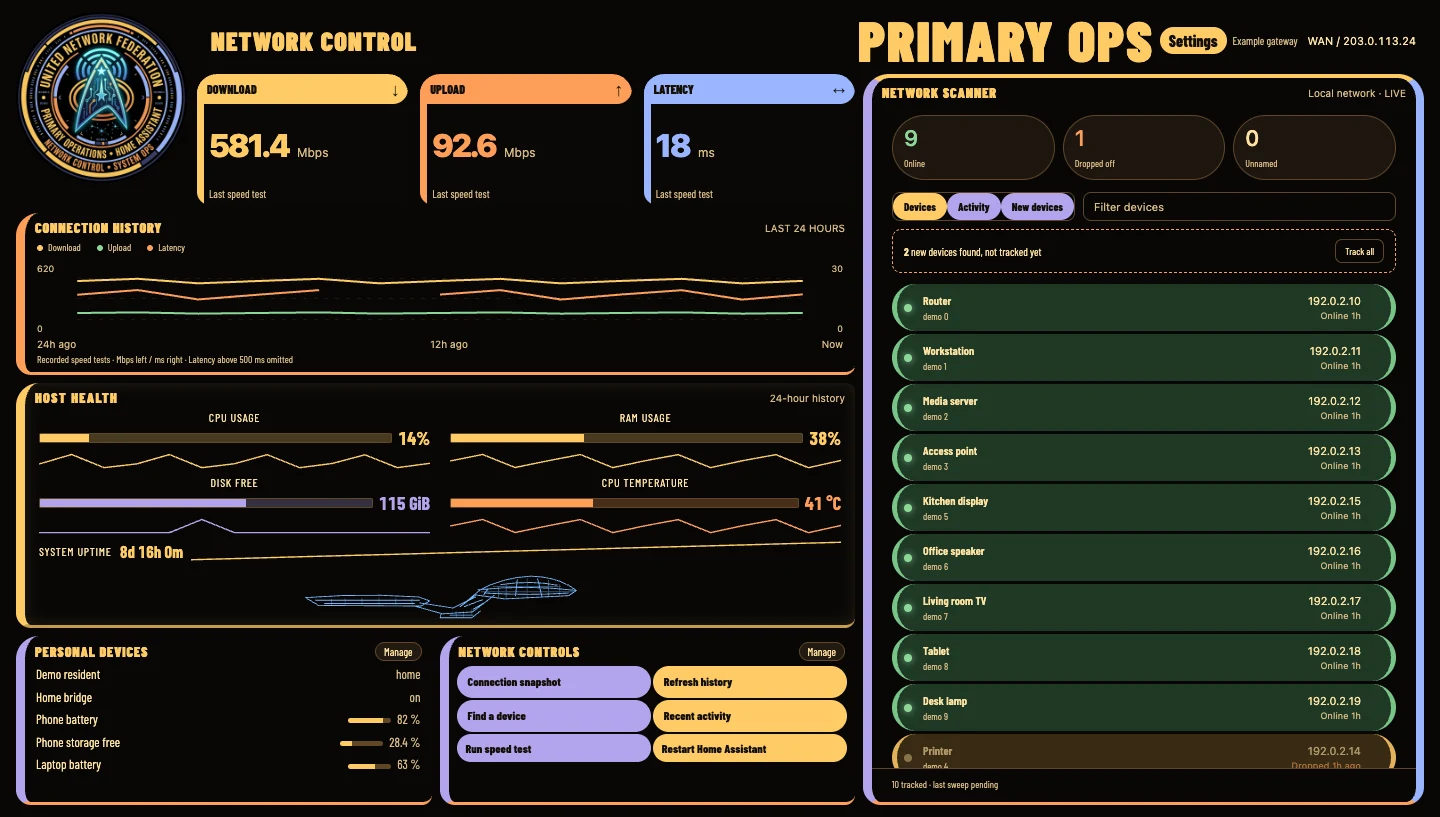
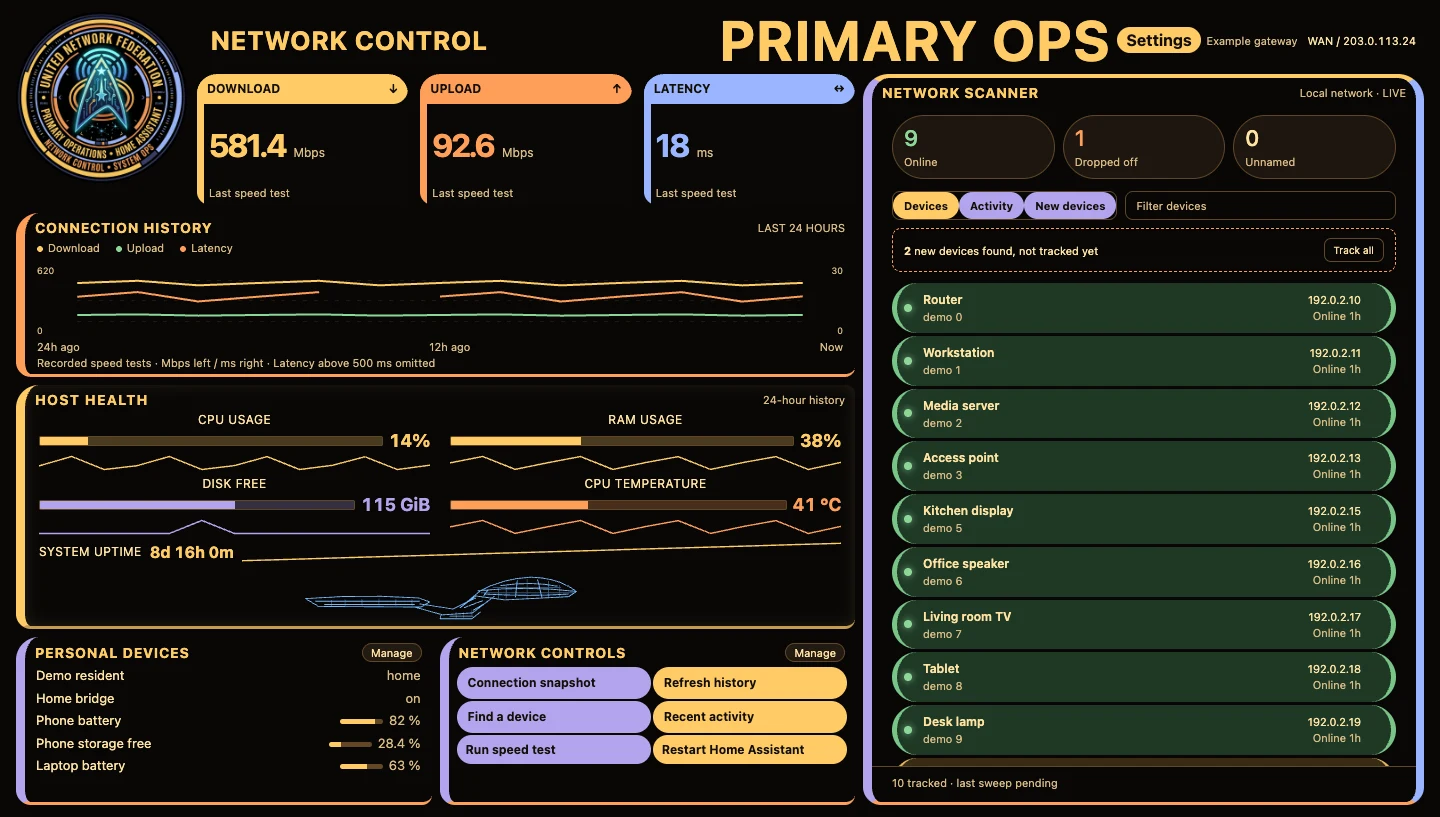
Improve legibility of Star Trek dashboard typography

diff --git a/custom_components/network_control/www/network-control.css b/custom_components/network_control/www/network-control.css
@@ -1389,7 +1389,8 @@ summary {
   --trek-lilac:#b3a4ed;
   --trek-blue:#99b5ff;
   color:var(--yanke-text);
-  font-family:"Barlow Condensed","Arial Narrow",system-ui,sans-serif;
+  --yanke-font:system-ui,-apple-system,BlinkMacSystemFont,"Segoe UI",sans-serif;
+  font-family:var(--yanke-font);
   background:#080706;
 }
 .shell[data-theme="trek"] header {
@@ -1400,7 +1401,7 @@ summary {
   margin-inline-start:0;
   color:var(--yanke-accent);
   text-transform:uppercase;
-  font-weight:900;
+  font-weight:700;
   letter-spacing:.045em;
 }
 .shell[data-theme="trek"] #dashboard-title::before {display:none}
@@ -1422,7 +1423,7 @@ summary {
 .shell[data-theme="trek"] .heading h2 {
   text-transform:uppercase;
   color:var(--yanke-accent);
-  font-weight:850;
+  font-weight:700;
   letter-spacing:.06em;
 }
 .shell[data-theme="trek"] .metric {
@@ -1441,7 +1442,7 @@ summary {
   margin:0 -8px 0 -8px;
   padding:2px 8px;
   color:#151009;
-  font-weight:850;
+  font-weight:700;
   text-transform:uppercase;
 }
 .shell[data-theme="trek"] .metric :is(.label span,.value) {color:var(--tile)!important}
@@ -1451,7 +1452,7 @@ summary {
   background:var(--trek-lilac);
   border:0;
   border-radius:999px;
-  font-weight:750;
+  font-weight:700;
 }
 .shell[data-theme="trek"] :is(.theme-button,.actions button:nth-child(2n),.tabs button.on) {background:var(--yanke-accent)}
 .shell[data-theme="trek"] :is(.actions button,.tabs button,.theme-button):active {filter:brightness(.8)}
@@ -1478,18 +1479,18 @@ summary {
 
 .trek-ops,.trek-ship {display:none}
 .shell[data-theme="trek"] {
-  font-family:"Barlow Condensed","Avenir Next Condensed","Arial Narrow",system-ui,sans-serif;
+  font-family:var(--yanke-font);
 }
 .shell[data-theme="trek"] #dashboard-title::before {
   display:block;position:static;inset:auto;width:1.25em;height:1.25em;
   filter:hue-rotate(20deg) saturate(1.3);
 }
 .shell[data-theme="trek"] .trek-ops {
-  display:block;color:var(--yanke-accent);text-transform:uppercase;font-weight:900;
+  display:block;color:var(--yanke-accent);text-transform:uppercase;font-weight:700;
   font-size:clamp(19px,4vw,56px);line-height:1;letter-spacing:.035em;
 }
 .shell[data-theme="trek"] .head-right {flex-wrap:nowrap}
-.shell[data-theme="trek"] .metric .value {font-weight:850}
+.shell[data-theme="trek"] .metric .value {font-weight:700}
 .shell[data-theme="trek"] #host-panel {display:flex;flex-direction:column}
 .shell[data-theme="trek"] #host {
   grid-template-rows:repeat(2,minmax(0,1fr)) auto;
@@ -1660,3 +1661,9 @@ summary {
     min-height:calc(var(--badge-size) - 40px);
   }
 }
+
+.shell[data-theme="trek"] :is(.tag,.legend,.chartnote,.axis,.metric .sub,.stat small,.sub2,.addr small,.scanfoot) {
+  font-size:11px;
+  line-height:1.25;
+}
+.shell[data-theme="trek"] .instrument-label {letter-spacing:.04em}

diff --git a/custom_components/network_control/__init__.py b/custom_components/network_control/__init__.py
@@ -13,7 +13,7 @@ DOMAIN = "network_control"
 CONFIG_SCHEMA = cv.config_entry_only_config_schema(DOMAIN)
 PLATFORMS = [Platform.SENSOR, Platform.BUTTON, Platform.EVENT]
 CARD_PATH = "/network_control/network-control.js"
-CARD_URL = f"{CARD_PATH}?v=1.18.1"
+CARD_URL = f"{CARD_PATH}?v=1.18.2"
 
 
 async def async_setup(hass, config):
